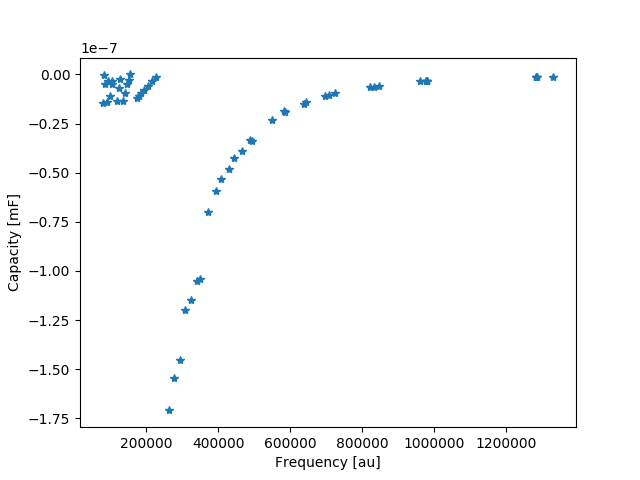
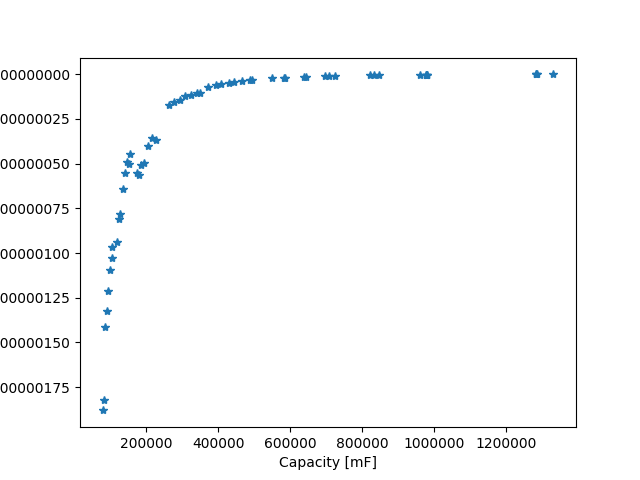
eigenfrequency as function of capacity
* Close #1.

diff --git a/compute.py b/compute.py
@@ -10,7 +10,7 @@ import csv
 import numpy as np
 # import itertools as it
 import matplotlib.pyplot as plt
-
+from scipy import optimize
 
 inductance = 2.15e-5
 
@@ -42,7 +42,7 @@ def read_data_from_file(file_name):
                         _capacity_1.append(float(row[1]))
                         _capacity_2.append(float(row[2]))
 
-                        connection_type.append(bool(row[3]))
+                        connection_type.append(int(row[3]))
                     except IndexError:
                         print("wtf")
 
@@ -68,36 +68,87 @@ def add_inverse(a, b):
         return 0
 
 
-def eigen_frequency(circuit_capacity, cable_capacity=0):
+def compute_eigen_frequency(circuit_capacity, a=1, n=1 / 2, b=0, d=0):
     """Compute the eigenfrequency.
 
     Parameters
     ----------
     circuit_capacity: float, ndarray
         Capacity of the elements in the circuit.
-    cable_capacity: float, ndarray
-        Cable capacity.
+    a: float
+        Prefactor/Amplitude.
+    n: float
+        Power law dependence.
+    b: float
+        X axis off set.
+    d: float
+        Y axis off set.
 
     Returns
     -------
     out: float
         Eigenfrequency of the circuit taking into account the cable capacity.
     """
-    # if circuit_capacity == 0:
-    #     return 0
-
-    return 1 / (2 * np.pi * np.sqrt(inductance * np.asarray(circuit_capacity + cable_capacity)))
+    prefactor = 1 / (2 * np.pi * np.sqrt(inductance))
+    return prefactor * a * (np.asarray(circuit_capacity + b) ** (-n)) + d
 
 
-def parasitic_capacity_calculation(capacity, efective_frequency, connection_type='serial'):
-    capacity_theo = (2 * np.pi * efective_frequency) ** -2 / inductance
+def compute_capacity_for_given_eigenfrequency(eigenfrequency, params):
+    """
+
+    Parameters
+    ----------
+    eigenfrequency: float
+        Frequency to be have the capacity computed at.
+    params: tuple
+        Tuple of parameters used for the eigenfrequency computation.
+
+    Returns
+    -------
+    capacity: float
+        Computed capacity needed for the given eigenfrequency.
+    """
+    a, n, b, d = params
+    capacity = ((eigenfrequency - d) * (2 * np.pi * np.sqrt(inductance)) / a) ** n - b
+    return capacity
+
+
+def parasitic_capacity_calculation(capacity, effective_frequency, connection_type='serial'):
+    """Compute the parasitic capacity assuming that it contributes either as a serial or parallel connection.
+
+    Parameters
+    ----------
+    capacity: float
+        Measured capacity.
+    effective_frequency: float
+        Measured effective frequency.
+    connection_type: str, optional
+        Either 'serial' or 'parallel'.
+        Defaults to 'serial'.
+
+    Returns
+    -------
+    out: float
+        Parasitic capacity.
+    """
+    capacity_theo = (2 * np.pi * effective_frequency) ** -2 / inductance
     if connection_type == 'serial':
-        return  capacity_theo - capacity
+        return capacity_theo - capacity
     else:
         return capacity_theo * capacity / (capacity - capacity_theo)
 
 
 def index_to_c1(c1):
+    """
+
+    Parameters
+    ----------
+    c1
+
+    Returns
+    -------
+
+    """
     circ = bin(c1)[2:]
     cap_list = [20, 44, 94, 200, 440, 940]
     cap_tot = 0
@@ -110,6 +161,16 @@ def index_to_c1(c1):
 
 
 def index_to_c2(c2):
+    """
+
+    Parameters
+    ----------
+    c2
+
+    Returns
+    -------
+
+    """
     circ = bin(c2)[2:]
     cap_list = [0.44, 0.94, 2, 4.4, 9.40]
     cap_tot = 0
@@ -122,6 +183,16 @@ def index_to_c2(c2):
 
 
 def index_to_c3(c3):
+    """
+
+    Parameters
+    ----------
+    c3
+
+    Returns
+    -------
+
+    """
     circ = bin(c3)[2:]
     cap_list = [0.044, 0.066, 0.094, 0.200]
     cap_tot = 0
@@ -133,7 +204,41 @@ def index_to_c3(c3):
     return cap_tot
 
 
+def compute_capacity_values(capacity_1, capacity_2, connection_type):
+    """Compute the capacity values from the data table.
+
+    Parameters
+    ----------
+    capacity_1: ndarray
+    capacity_2: ndarray
+    connection_type: ndarray
+
+    Returns
+    -------
+    capacity_values: ndarray
+        List of capacity values.
+    """
+    capacity_values = []
+    for i in range(len(capacity_1)):
+        capacity_values.append(compute_capacity(capacity_1[i], capacity_2[i], 0, connection_type[i]))
+    return np.asarray(capacity_values)
+
+
 def compute_capacity(c1, c2, c3=0, serial=0):
+    """Compute the capacity values from the data table.
+
+    Parameters
+    ----------
+    c1
+    c2
+    c3
+    serial
+
+    Returns
+    -------
+    out: float
+        Capacity.
+    """
     if serial == 0:
         cbox1 = index_to_c1(int(c1)) + index_to_c2(int(c2))
     elif serial == 1:
@@ -145,65 +250,58 @@ def compute_capacity(c1, c2, c3=0, serial=0):
     
     if cbox2 == 0:
         return cbox1*1e-9
-    if cbox1 == 0:
+    elif cbox1 == 0:
         return cbox2*1e-9
     else:
         return add_inverse(cbox1 * 1e-9, cbox2 * 1e-9)
 
 
-def plot_capacity(frequency, c_par):
-    plt.plot(frequency, c_par, '*')
+def plot_main(capacity_values, theoretical_frequency, measured_frequency, optimized_values):
+    plt.plot(capacity_values, theoretical_frequency, 'o')
+    plt.plot(capacity_values, measured_frequency, 'v')
+    plt.plot(capacity_values, optimized_values, '*')
 
-    plt.xlabel('Frequency [au]')
-    plt.ylabel('Capacity [mF]')
+    plt.xlabel('Capacity [mF]')
+    plt.ylabel('Frequency [au]')
 
-    plt.show()
+    plt.xscale('log')
+    plt.yscale('log')
 
-
-def plot_capacities(frequency, c_par, c_ser):
-    plt.plot(frequency, c_par)
-    plt.plot(frequency, c_ser)
-
-    plt.legend(['Parallel calculation', 'Serial calculation'])
-    plt.xlabel('Frequency [au]')
-    plt.ylabel('Capacity [mF]')
+    plt.legend(['Theoretical frequency values', 'Measured frequency values', 'Optimized frequency values'],
+               loc='best')
 
     plt.show()
 
 
-def plot_frequencies(measured_frequency, theoretical_frequency):
-    plt.plot(measured_frequency, theoretical_frequency, '*')
+def find_optimized_equation():
 
-    plt.xlabel('Measured frequency [au]')
-    plt.ylabel('Theoretical frequency [au]')
-
-    plt.show()
-
-
-def main():
-
-    # liste = list(it.product(range(64), range(32), range(16)))
-
+    # Read data from file
     measured_frequency, capacity_1, capacity_2, connection_type = read_data_from_file('data/data.csv')
 
-    # c_par = add_inverse(np.asarray(capacity_1), np.asarray(capacity_2))
-    # c_ser = np.asarray(capacity_1) + np.asarray(capacity_2)
-    # plot_capacities(measured_frequency, c_par, c_ser)
+    # Compute capacity values
+    capacity_values = compute_capacity_values(capacity_1, capacity_2, connection_type)
 
-    capacity_values = []
-    for i in range(len(capacity_1)):
-        capacity_values.append(compute_capacity(capacity_1[i], capacity_2[i], 0, connection_type[i]))
+    # Compute theoretical frequency
+    theoretical_frequency = compute_eigen_frequency(np.asarray(capacity_values))
 
-    # plot_capacity(measured_frequency, capacity_values)
-    #
-    # zeros = np.zeros(len(capacity_1))
-    # theoretical_frequency = eigen_frequency(np.asarray(capacity_values), zeros)
+    # Optimize the theoretical equation
+    params, params_covariance = optimize.curve_fit(compute_eigen_frequency, capacity_values, measured_frequency,
+                                                   p0=[1, 1/2, 0, 0])
+    optimized_values = compute_eigen_frequency(capacity_values, *params)
 
-    # plot_frequencies(measured_frequency, theoretical_frequency)
+    # Plot the result
+    plot_main(capacity_values, theoretical_frequency, measured_frequency, optimized_values)
 
-    result = parasitic_capacity_calculation(capacity_values, measured_frequency, connection_type='parallel')
-    plot_capacity(measured_frequency, result)
+    return params
+
+
+def main(value):
+    # computed_params = find_optimized_equation()
+    computed_params = [1.64910419e+00,  4.72453831e-01,  1.42870768e-10, -1.14410061e+04]
+    result = compute_capacity_for_given_eigenfrequency(value, computed_params)
+    print(result)
 
 
 if __name__ == '__main__':
-    main()
+    main(0.1)
+    # find_optimized_equation()
